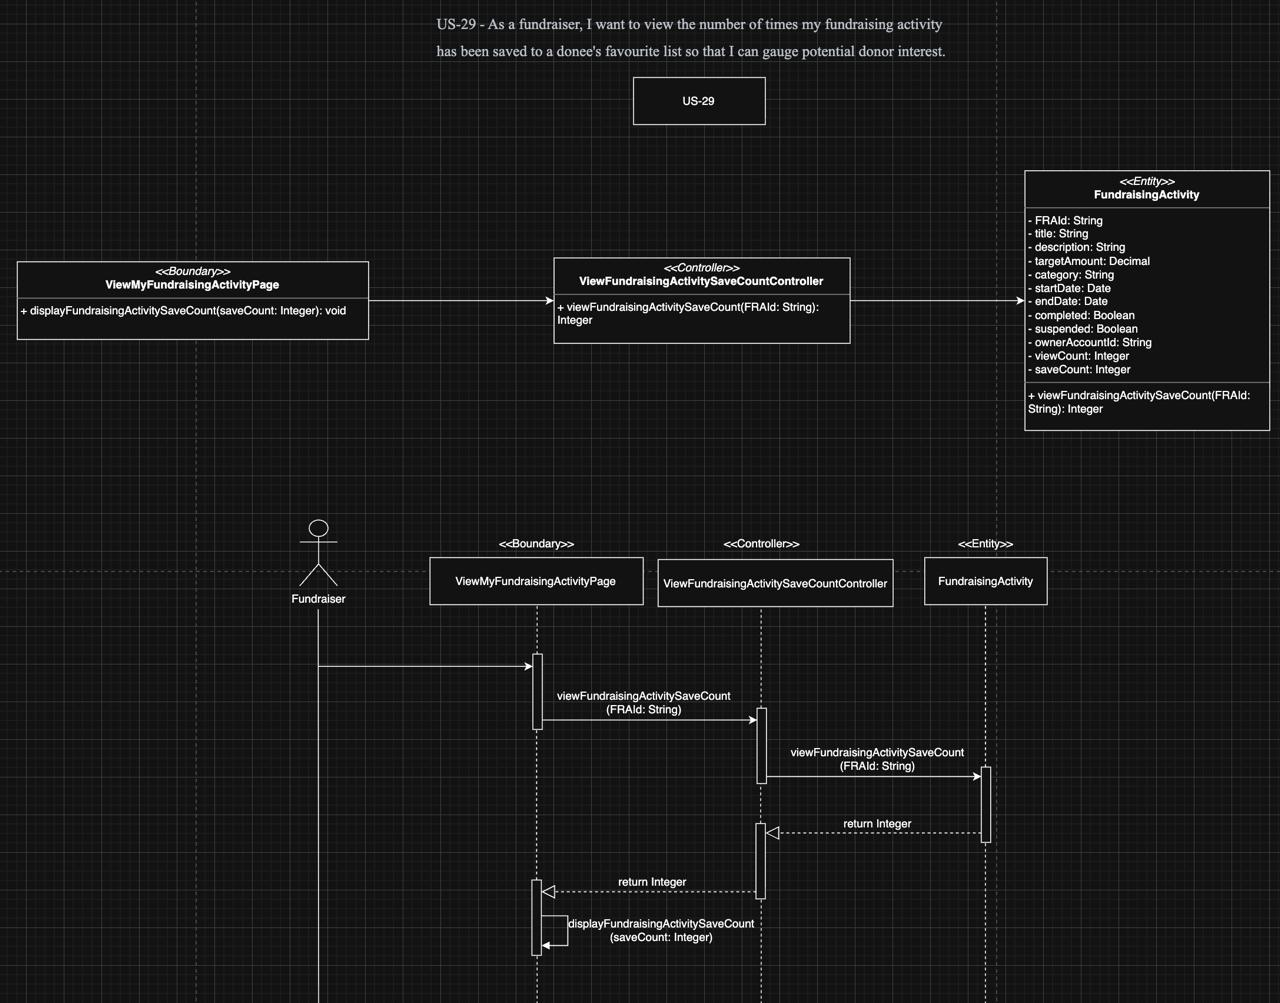
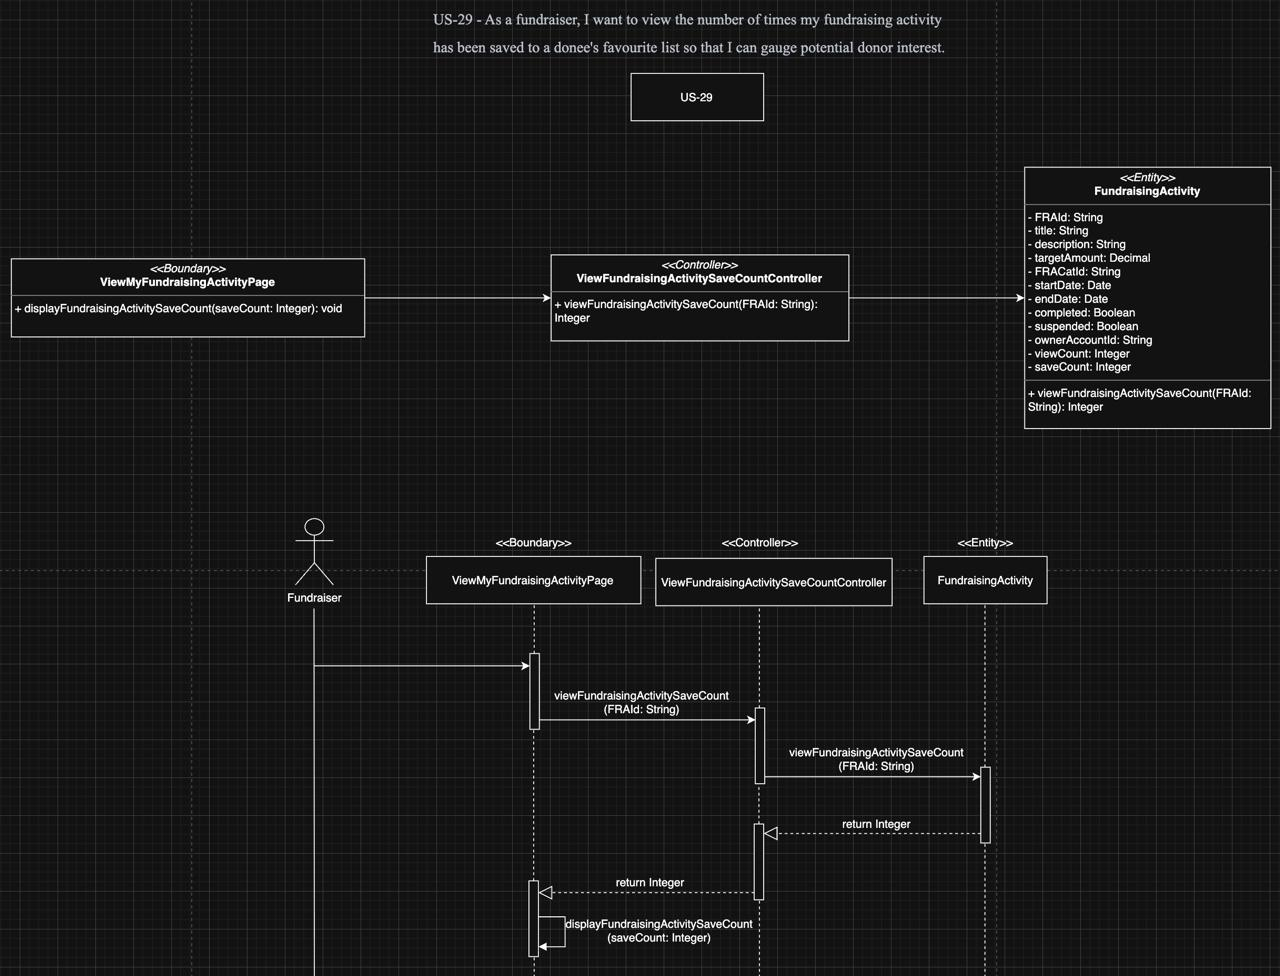
diagrams: re-export US-28 + US-29 with FRACatId (was last-mile drift)
User dropped updated US-28 / US-29 diagrams into sprint-4_diagrams/.
The new exports flip the entity attribute list from `category: String`
→ `FRACatId: String`, finally completing the 2026-05-18 FRACatId rename
that originally cascaded through US-13/14/15/17/20/21/30/31 but missed
these two count-display stories.

No code change needed — `fra_cat_id` has been the entity field name
since the original cascade landed. This is a diagram-only fix.

Updated:
- diagrams/sprint-4_diagrams/US-28.jpg + US-29.jpg replaced
- audit.md: drop the US-28/29 entity-attribute drift entries (both the
  per-US ⚠️ markers and the bottom "Pure diagram typos" line); add a
  Resolved entry; bump the Last-refreshed stamp.
- diagram_typos.md: extend the US-13 resolution note to list US-28/29
  among the cascading USs (with a parenthetical that they came in a
  later re-export the same day).

diff --git a/docs/audit.md b/docs/audit.md
@@ -4,7 +4,7 @@ Transcription of the Boundary / Controller / Entity surface for every user story
 
 Each layer lists what the **diagram** says, then the matching `Code →` identifier + file path showing what's actually implemented (in `snake_case`). Where a `Code →` line shows a different class or method name than the diagram, that's a drift — collected at the bottom of this file.
 
-*Last refreshed: 2026-05-18, after the US-15 unpack-fields refactor, US-22/US-23 success-message persistence fix, and US-28/US-29 boundary-placement rewire all landed.*
+*Last refreshed: 2026-05-18, after the US-15 unpack-fields refactor, US-22/US-23 success-message persistence fix, US-28/US-29 boundary-placement rewire, and the US-28/US-29 diagram re-export (`category: String` → `FRACatId: String`) all landed.*
 
 Conventions:
 - Class names are taken verbatim from the diagrams (so `category` vs `FRACatId` reflects the diagram as drawn).
@@ -310,7 +310,6 @@ Conventions:
 - **Entity:** `FundraisingActivity` *(attrs as US-13)*
   - `viewFundraisingActivityViewCount(FRAId: String): Integer`
   - Code → `FundraisingActivity.view_fundraising_activity_view_count(fra_id)` in [entity/fundraising_activity.py](../entity/fundraising_activity.py)
-- ⚠️ **Drift:** the US-28 diagram still lists the entity attribute as `category: String` rather than `FRACatId: String` — the 2026-05-18 FRACatId rename hasn't cascaded onto this diagram yet. Code follows the corrected `fra_cat_id`.
 
 ## US-29 — View fundraising activity save count *(Fundraiser)*
 - **Boundary:** `ViewMyFundraisingActivityPage`
@@ -322,7 +321,6 @@ Conventions:
 - **Entity:** `FundraisingActivity` *(attrs as US-13)*
   - `viewFundraisingActivitySaveCount(FRAId: String): Integer`
   - Code → `FundraisingActivity.view_fundraising_activity_save_count(fra_id)` in [entity/fundraising_activity.py](../entity/fundraising_activity.py)
-- ⚠️ **Drift:** same `category: String` → `FRACatId: String` cascade gap as US-28.
 
 ## US-30 — Search my completed fundraising activities *(Fundraiser)*
 - **Boundary:** `ViewMyFundraisingActivitiesPage`
@@ -480,7 +478,6 @@ Conventions:
 ## Observed drifts (worth a [diagram_typos.md](diagram_typos.md) entry)
 
 ### Pure diagram typos / gaps
-- **US-28 / US-29 entity attribute** — diagram still lists `category: String`; the 2026-05-18 FRACatId rename cascaded through US-13/14/15/17/20/21/30/31 but missed these two.
 - **US-31 boundary method** — `displayMyCompletedFundraisingActivities(myCompletedFRAList: FundraisingActivity)` is missing the `List<…>` wrapper on the parameter type.
 
 ### Code-side singular/plural class-name drifts (controller stays a pure delegator, no behaviour change)
@@ -493,6 +490,7 @@ Diagram uses the plural form of the entity in the controller class name, code us
 - **US-37:** diagram `SearchFundraisingActivityCategoriesController` → code `SearchFundraisingActivityCategoryController`
 
 ### Resolved during this audit
+- ~~**US-28 / US-29 entity attribute drift (`category: String` instead of `FRACatId: String`)**~~ **Resolved 2026-05-18.** Re-exported diagrams now type the entity attribute as `FRACatId: String`, matching the rest of the post-2026-05-18 FRA class diagrams (US-13/14/15/17/20/21/30/31). Code was already on `fra_cat_id` — no code change needed.
 - ~~**US-15 signature-shape drift**~~ **Resolved 2026-05-18.** Code now takes the 6 unpacked fields exactly as the diagram defines: `update_my_fundraising_activity(owner_account_id, fra_id, title, description, target_amount, fra_cat_id, start_date, end_date)`. The previous `updated_my_fra: FundraisingActivity` parameter is gone. As a side effect, `completed` and `suspended` are no longer settable through update — `completed` is now a derived `@property` on the entity (`end_date < today`), and `suspended` is owned by US-16 / Exception A unsuspend. The `completed` column was dropped from the schema.
 - ~~**US-28 / US-29 boundary placement**~~ **Resolved 2026-05-18.** Diagram puts both count-display methods on `ViewMyFundraisingActivityPage` (fundraiser-only); code had them on `ViewFundraisingActivityPage` (donee detail) with a code-only owner-gate, and the consolidated `ManageMyFundraisingActivityPage` was reading `activity.view_count` / `activity.save_count` directly off the dataclass — bypassing the diagram-defined controllers entirely. After the rewire: the per-US `ViewMyFundraisingActivityPage` renders the metrics via `ViewFundraisingActivityViewCountController` + `ViewFundraisingActivitySaveCountController`; the donee-side detail (`ViewFundraisingActivityPage` + shared `render_activity_detail` helper) no longer renders the counts at all; the consolidated `ManageMyFundraisingActivityPage` now calls the same controllers (Exception C: same call chain as the per-US page).
 

diff --git a/docs/diagram_typos.md b/docs/diagram_typos.md
@@ -16,7 +16,7 @@ Diagrams: [diagrams/sprint-1_diagrams/](../diagrams/sprint-1_diagrams/).
 - ~~**[US-11.jpg](../diagrams/sprint-1_diagrams/US-11.jpg) `UserAccount.profileId: Integer`**~~ — **resolved 2026-05-14**. Re-exported diagram now types `profileId: String`, matching US-6 / US-18 / US-26 / US-39.
 - ~~**No `displayError` / `displayValidationError` on any boundary class diagram.**~~ **Deferred by lecturer 2026-05-16.** Diagram convention is that error display is implicit; the diagrams will continue to show only `displaySuccess(...)`. Code behaviour unchanged. Tracked under "Lecturer decisions" in [todo.md](todo.md).
 - ~~**[US-13.jpg](../diagrams/sprint-1_diagrams/US-13.jpg) `createFundraisingActivity` is missing `ownerAccountId: String`.**~~ **Resolved 2026-05-16.** Re-exported diagram now signs the method `createFundraisingActivity(title, description, targetAmount, FRACatId, startDate, endDate, ownerAccountId: String): FundraisingActivity` on both the class diagram and sequence diagram, matching the 7-param implementation. Boundary still supplies `ownerAccountId` from `st.session_state["user"].account_id`.
-- ~~**[US-13.jpg](../diagrams/sprint-1_diagrams/US-13.jpg) `category: String` is a free-text field, bypassing the curated FundraisingActivityCategory list.**~~ **Resolved 2026-05-18.** The 2026-05-18 diagram replaces the entity attribute `category: String` with `FRACatId: String` (FK to `FundraisingActivityCategory`) and updates `createFundraisingActivity` / `updateMyFundraisingActivity` parameter lists accordingly. The change cascades through every FRA class diagram (US-14, US-15, US-17, US-20, US-21, US-30, US-31). Schema adds `fra_cat_id TEXT NOT NULL REFERENCES fundraising_activity_category(fra_cat_id)`. Create/update boundaries now render the category as a `st.selectbox` populated by `FundraisingActivityCategory.view_all_categories()` (active categories only — a legitimate FK dropdown, not a String enum). Search methods (US-17, US-20, US-30, donation history, favourite search) JOIN to `fundraising_activity_category` and match `category_name` so existing UX continues to work. Tests' shared `conftest.py` seeds a default `cat_001` "Test" category so FK-dependent tests don't each have to bootstrap one.
+- ~~**[US-13.jpg](../diagrams/sprint-1_diagrams/US-13.jpg) `category: String` is a free-text field, bypassing the curated FundraisingActivityCategory list.**~~ **Resolved 2026-05-18.** The 2026-05-18 diagram replaces the entity attribute `category: String` with `FRACatId: String` (FK to `FundraisingActivityCategory`) and updates `createFundraisingActivity` / `updateMyFundraisingActivity` parameter lists accordingly. The change cascades through every FRA class diagram (US-14, US-15, US-17, US-20, US-21, US-28, US-29, US-30, US-31 — US-28/US-29 re-exported later the same day after the initial Sprint 4 set missed them). Schema adds `fra_cat_id TEXT NOT NULL REFERENCES fundraising_activity_category(fra_cat_id)`. Create/update boundaries now render the category as a `st.selectbox` populated by `FundraisingActivityCategory.view_all_categories()` (active categories only — a legitimate FK dropdown, not a String enum). Search methods (US-17, US-20, US-30, donation history, favourite search) JOIN to `fundraising_activity_category` and match `category_name` so existing UX continues to work. Tests' shared `conftest.py` seeds a default `cat_001` "Test" category so FK-dependent tests don't each have to bootstrap one.
 - ~~**Login failure return type not on diagrams ([US-11.jpg](../diagrams/sprint-1_diagrams/US-11.jpg), [US-18.jpg](../diagrams/sprint-1_diagrams/US-18.jpg), [US-26.jpg](../diagrams/sprint-1_diagrams/US-26.jpg), [US-39.jpg](../diagrams/sprint-1_diagrams/US-39.jpg)).**~~ **Deferred by lecturer 2026-05-16.** Login diagrams keep typing `login(email, password): UserAccount` with no failure branch; implementation's `None`-on-no-match is accepted as an implicit convention. Code behaviour unchanged. Tracked under "Lecturer decisions" in [todo.md](todo.md).
 
 ## Sprint 2